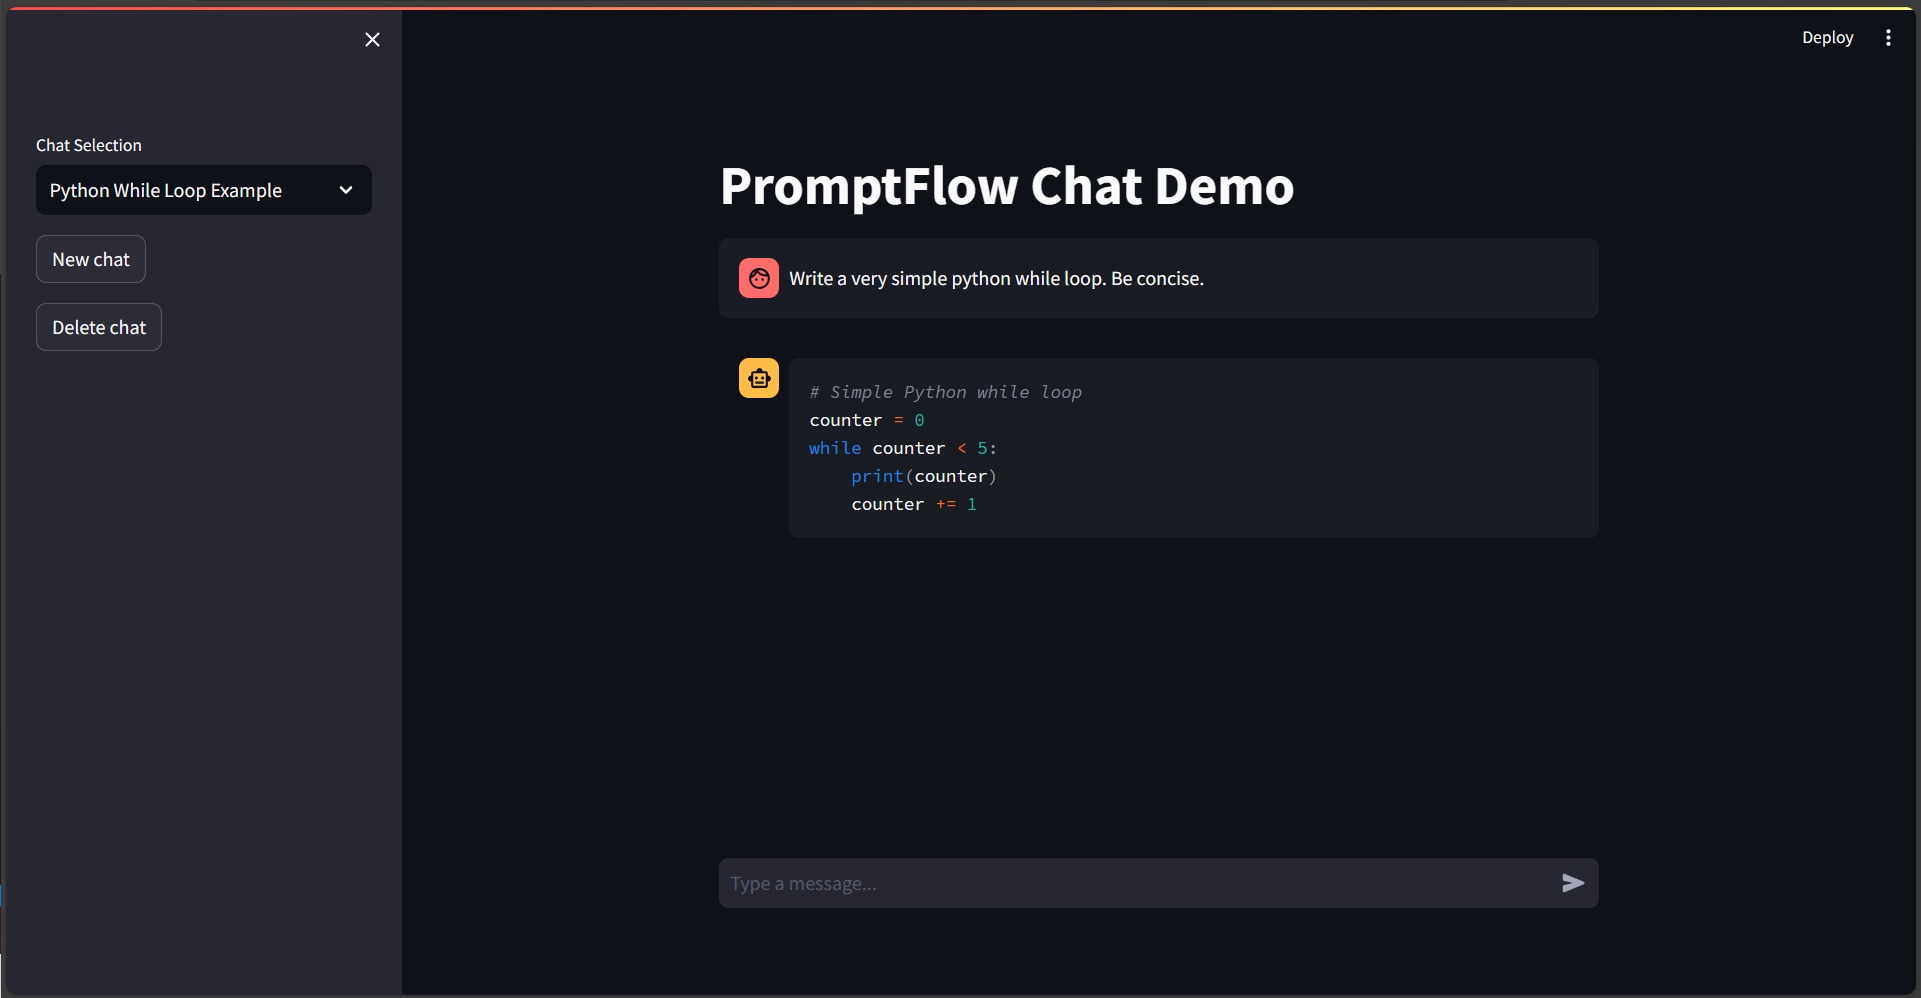
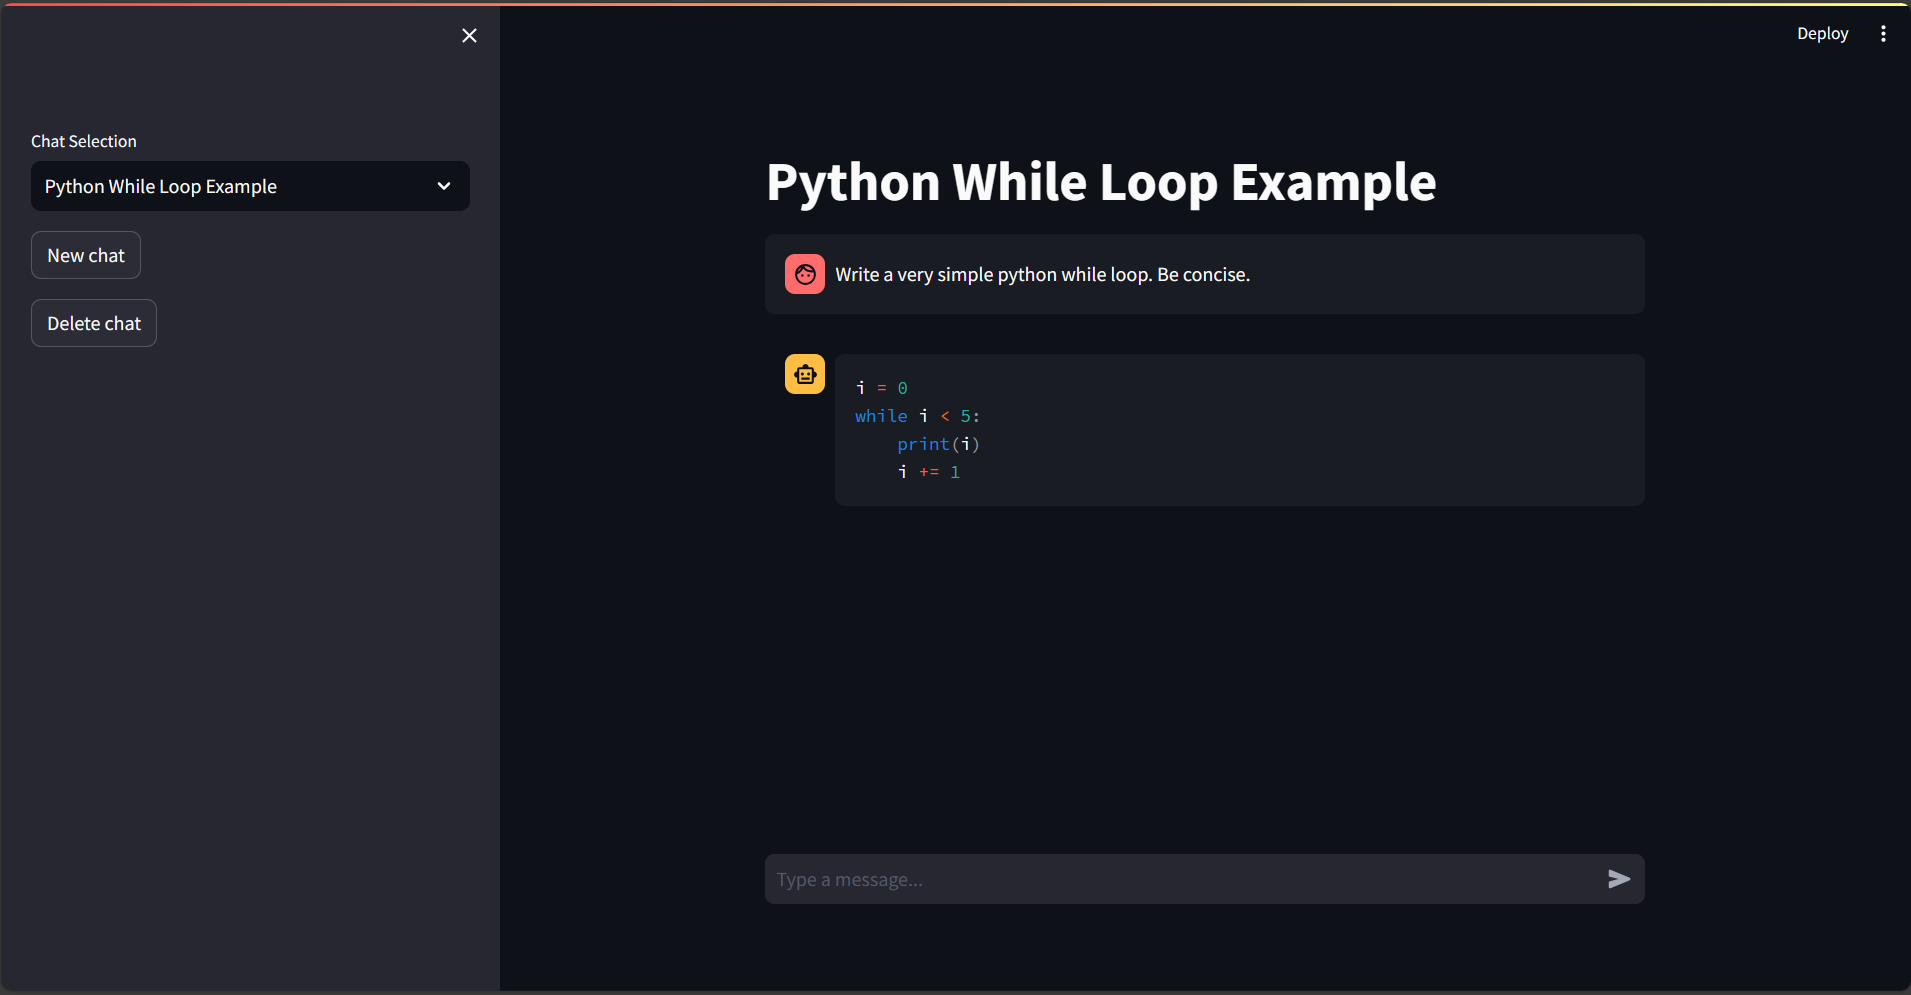
Set title to chat title

diff --git a/app/app.py b/app/app.py
@@ -1,4 +1,3 @@
-from dataclasses import field
 import json
 import os
 from typing import List
@@ -11,7 +10,7 @@ from promptflow.entities import AzureOpenAIConnection
 
 OPENAI_API_KEY = os.getenv("OPENAI_API_KEY")
 OPENAI_API_BASE = os.getenv("OPENAI_API_BASE")
-PAGE_TITLE = "Prompt flow + Streamlit"
+PAGE_TITLE = "Promptflow + Streamlit"
 
 CHAT_FLOW_PATH = "flows/chat"
 TITLE_FLOW_PATH = "flows/make_title"
@@ -73,8 +72,6 @@ if "chat_history" not in st.session_state and \
         os.path.exists("chat_history.jsonl"):
     restore_chat_history()
 
-st.title(PAGE_TITLE)
-
 # Initialize chat history
 if "chat_history" not in st.session_state:
     st.session_state.chat_history: List[ChatThreadHistory] = [
@@ -99,6 +96,8 @@ with st.sidebar:
         save_chat_history(st.session_state.chat_history)
 
     st.button("Delete chat", on_click=lambda: delete_chat())
+
+st.title(st.session_state.chat_history[st.session_state.chat_i].title)
 
 chat = st.empty()
 
